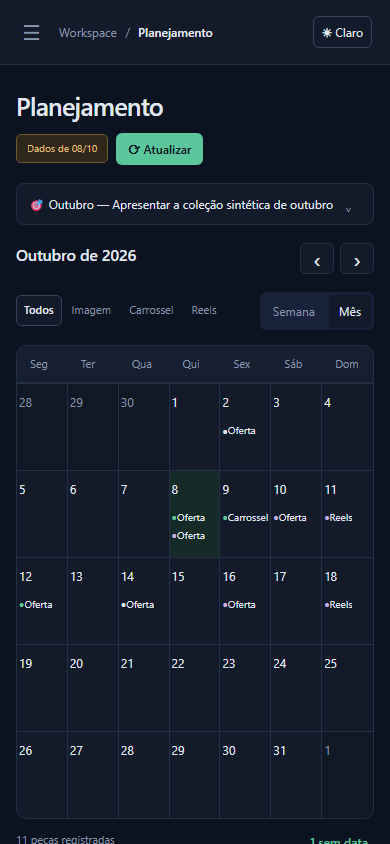
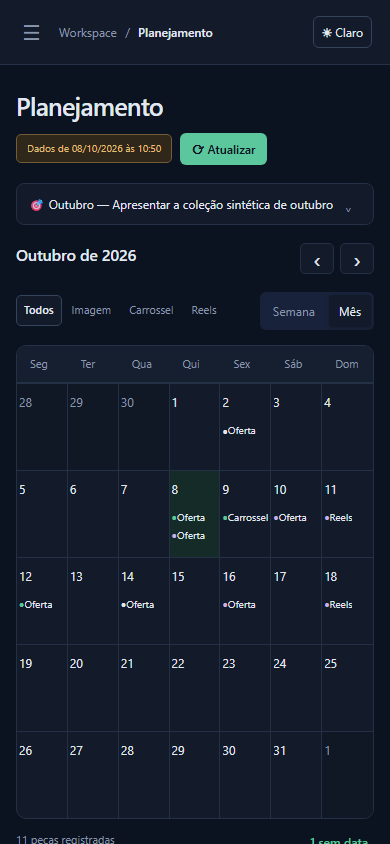
fix(layout): preservar frescor e evidências visuais

Changed region(s): [[0.2462, 0.154, 0.7077, 0.2156]]

diff --git a/src/web/instagram.js b/src/web/instagram.js
@@ -95,10 +95,18 @@
     },{once:true});
     elementos.midia.append(img);img.src='/api/midia/'+encodeURIComponent(posicao.arquivo.arquivo_id);
   }
+  function rotuloPosicao(novo,prefixo,original) {
+    const posicao=posicoes[Math.max(0,Math.min(novo,posicoes.length-1))];
+    return posicao.contexto.startsWith('Cena ')?prefixo+posicao.contexto:original;
+  }
   function marcarPosicao() {
     elementos.contador.textContent=(indice+1)+'/'+posicoes.length;
     elementos.anterior.disabled=indice===0;elementos.proximo.disabled=indice===posicoes.length-1;
+    elementos.anterior.setAttribute('aria-label',rotuloPosicao(indice-1,'Anterior: ','Página anterior'));
+    elementos.proximo.setAttribute('aria-label',rotuloPosicao(indice+1,'Próxima: ','Próxima página'));
+    elementos.pontos.setAttribute('aria-label',peca.formato==='Reels'?'Cenas da prévia':'Páginas da prévia');
     [...elementos.pontos.children].forEach((ponto,i)=>{
+      ponto.setAttribute('aria-label',rotuloPosicao(i,'Ir para ','Ir para página '+(i+1)));
       ponto.classList.toggle('active',i===indice);
       if(i===indice)ponto.setAttribute('aria-current','true');else ponto.removeAttribute('aria-current');
     });
@@ -111,7 +119,7 @@
   function criarPontos() {
     if(elementos.pontos.children.length===posicoes.length)return;
     const foco=document.activeElement,restaurar=elementos.pontos.contains(foco);elementos.pontos.replaceChildren();
-    posicoes.forEach((_,i)=>{const ponto=botao('●','Ir para página '+(i+1));ponto.addEventListener('click',()=>selecionar(i));elementos.pontos.append(ponto);});
+    posicoes.forEach((_,i)=>{const ponto=botao('●',rotuloPosicao(i,'Ir para ','Ir para página '+(i+1)));ponto.addEventListener('click',()=>selecionar(i));elementos.pontos.append(ponto);});
     if(restaurar)elementos.pontos.children[indice].focus({preventScroll:true});
   }
   function apresentar() {

diff --git a/src/web/app.js b/src/web/app.js
@@ -584,7 +584,14 @@ function controles() {
   $('#atualizar').addEventListener('click',atualizar);
 }
 function detalhesCaptura() {
-  $('#selo').textContent=state.view.selo.texto;$('#selo').className='badge '+state.view.selo.cor;
+  const {selo,captura,ultimaTentativa,estado}=state.view;
+  const falhou=ultimaTentativa?.resultado==='falhou';
+  const instante=captura?new Intl.DateTimeFormat('pt-BR',{timeZone:'America/Sao_Paulo',year:'numeric',month:'2-digit',day:'2-digit',hour:'2-digit',minute:'2-digit',hourCycle:'h23'})
+    .format(new Date(captura.completedAt)).replace(', ',' às '):null;
+  const texto=falhou?'Atualização falhou · '+(instante?'dados de '+instante:'sem dados'):
+    estado==='anterior_hoje'?'Dados de '+instante:selo.texto;
+  $('#selo').textContent=texto;$('#selo').className='badge '+(falhou?'vermelho':selo.cor);
+  $('#selo').title=instante?'Dados de '+instante:'';
 }
 async function reler({manterDesabilitado=false}={}) {
   $('#atualizar').disabled=true;

diff --git a/src/web/layout-model.js b/src/web/layout-model.js
@@ -36,8 +36,11 @@
       contexto:pagina?'Página '+u.indice:'Cena '+u.indice+' · '+(index===0?'início':'final')})));
   }
   function posicoesInstagram(p) {
-    if(p.formato==='Imagem')return [{arquivo:imagensDaPeca(p)[0]?.arquivo??null,contexto:'Imagem 1'}];
     const posicoes=[...posicoesDasUnidades(p,'paginas'),...posicoesDasUnidades(p,'cenas')];
+    if(p.formato==='Imagem') {
+      const arquivo=posicoes.length?posicoes[0].arquivo:imagensDaPeca(p)[0]?.arquivo??null;
+      return [{arquivo,contexto:'Imagem 1'}];
+    }
     return posicoes.length?posicoes:[{arquivo:null,contexto:'Prévia indisponível'}];
   }
   const preenchido=value=>value!==null&&value!==undefined&&!(typeof value==='string'&&value.trim()==='');
